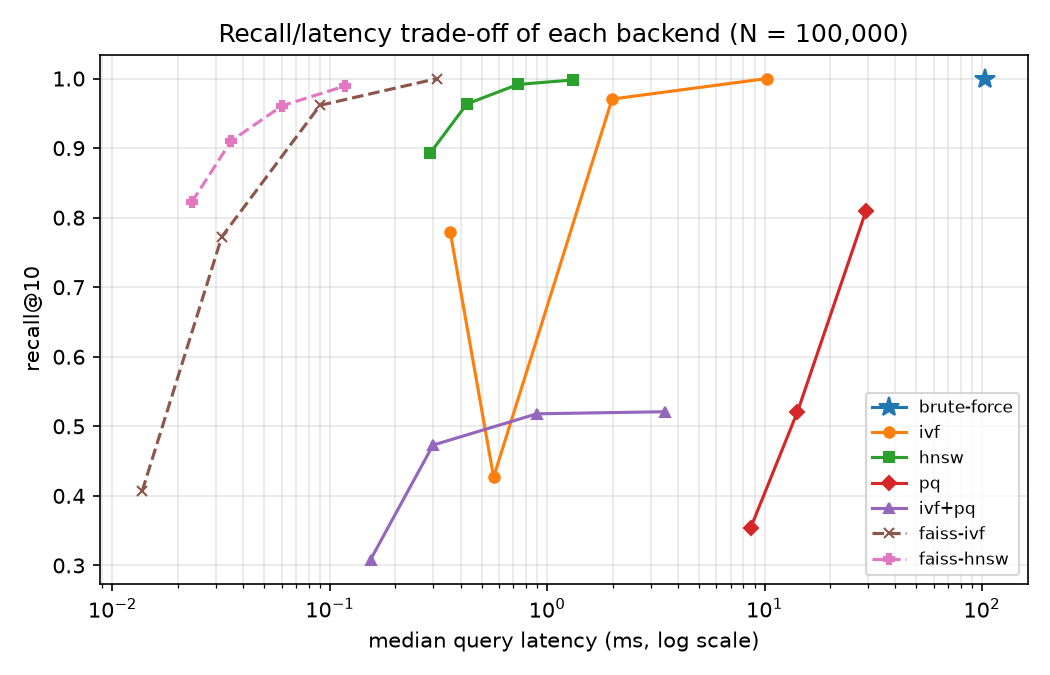
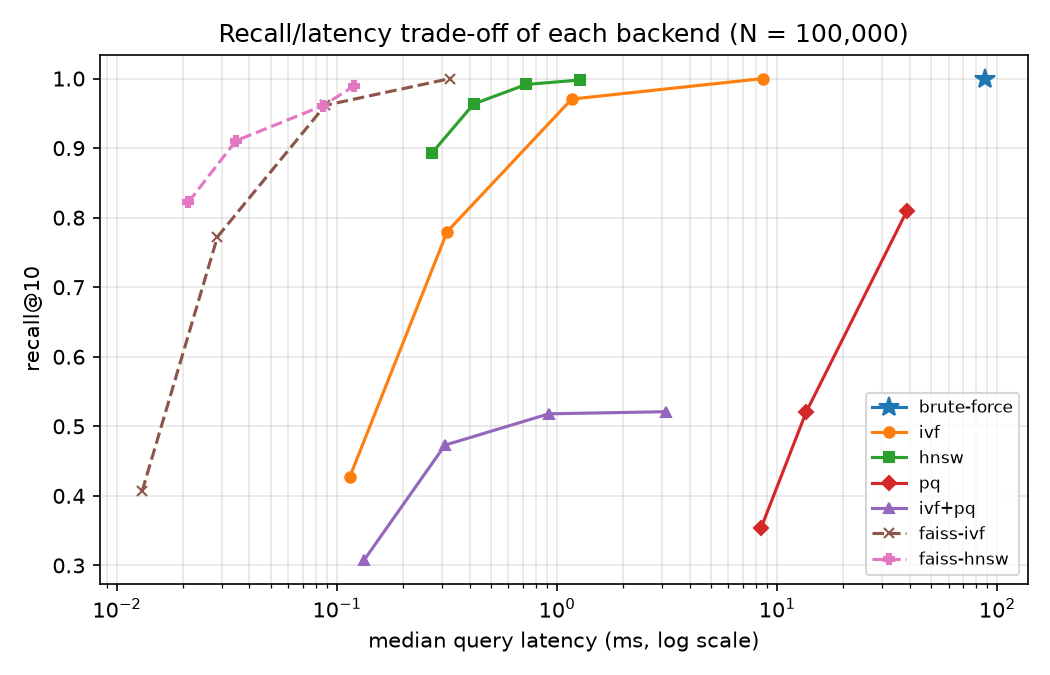
docs(bench): rerun SIFT 100k with the warm-up and best-of-two protocol
IVF nprobe=1 now measures 0.11 ms, in line with isolated runs.

diff --git a/docs/benchmarks/sift.md b/docs/benchmarks/sift.md
@@ -4,7 +4,7 @@ _Generated by `benchmarks/ann_benchmark.py`; do not edit by hand._
 
 - Data: SIFT1M (TEXMEX corpus) (100,000 base vectors of `sift_base.fvecs` and the first 200 queries of `sift_query.fvecs` (128 dimensions), L2-normalised)
 - 200 queries of the public query set, recall@10 measured against the exact brute-force top-10
-- Latency: one query at a time, median (p50) and 95th percentile (p95)
+- Latency: one query at a time, median (p50) and 95th percentile (p95), after 20 warm-up queries; best of 2 timed passes
 - Memory: bytes needed to answer a query: float32 vectors plus the index structure (PQ and IVF+PQ keep only their codes, codebooks and lists)
 - Machine: x86_64, 1 CPU, Python 3.12.14, numpy 1.26.4
 
@@ -12,27 +12,27 @@ _Generated by `benchmarks/ann_benchmark.py`; do not edit by hand._
 
 | Method | Setting | Recall@10 | p50 latency | p95 latency | Speed-up (p50) | Memory | Build |
 |---|---|---:|---:|---:|---:|---:|---:|
-| brute-force | exact scan | 1.000 | 103.71 ms | 146.42 ms | 1.0x | 48.8 MB | 0.0 s |
-| ivf | 316 lists, nprobe=1 | 0.427 | 0.57 ms | 27.38 ms | 182.8x | 49.9 MB | 17.2 s |
-| ivf | 316 lists, nprobe=4 | 0.780 | 0.36 ms | 2.06 ms | 289.7x | 49.9 MB | 17.2 s |
-| ivf | 316 lists, nprobe=16 | 0.971 | 1.99 ms | 5.45 ms | 52.1x | 49.9 MB | 17.2 s |
-| ivf | 316 lists, nprobe=64 | 1.000 | 10.24 ms | 20.27 ms | 10.1x | 49.9 MB | 17.2 s |
-| hnsw | M=16, ef=16 | 0.892 | 0.29 ms | 0.37 ms | 358.7x | 70.1 MB | 317.1 s |
-| hnsw | M=16, ef=32 | 0.963 | 0.43 ms | 0.52 ms | 242.7x | 70.1 MB | 317.1 s |
-| hnsw | M=16, ef=64 | 0.992 | 0.73 ms | 1.24 ms | 141.5x | 70.1 MB | 317.1 s |
-| hnsw | M=16, ef=128 | 0.998 | 1.32 ms | 1.64 ms | 78.8x | 70.1 MB | 317.1 s |
-| pq | m=16 (16 B/vector) | 0.354 | 8.63 ms | 10.95 ms | 12.0x | 1.8 MB | 38.2 s |
-| pq | m=32 (32 B/vector) | 0.521 | 14.18 ms | 17.93 ms | 7.3x | 3.3 MB | 143.6 s |
-| pq | m=64 (64 B/vector) | 0.809 | 29.27 ms | 41.59 ms | 3.5x | 6.4 MB | 267.6 s |
-| ivf+pq | m=32, nprobe=1 | 0.308 | 0.15 ms | 0.36 ms | 673.0x | 4.4 MB | 126.6 s |
-| ivf+pq | m=32, nprobe=4 | 0.473 | 0.30 ms | 0.43 ms | 347.5x | 4.4 MB | 126.6 s |
-| ivf+pq | m=32, nprobe=16 | 0.518 | 0.90 ms | 1.20 ms | 115.7x | 4.4 MB | 126.6 s |
-| ivf+pq | m=32, nprobe=64 | 0.521 | 3.48 ms | 6.17 ms | 29.8x | 4.4 MB | 126.6 s |
-| faiss-ivf | 316 lists, nprobe=1 | 0.406 | 0.01 ms | 0.02 ms | 7572.2x | 49.7 MB | 1.7 s |
-| faiss-ivf | 316 lists, nprobe=4 | 0.772 | 0.03 ms | 0.05 ms | 3254.9x | 49.7 MB | 1.7 s |
-| faiss-ivf | 316 lists, nprobe=16 | 0.962 | 0.09 ms | 0.13 ms | 1150.1x | 49.7 MB | 1.7 s |
-| faiss-ivf | 316 lists, nprobe=64 | 1.000 | 0.31 ms | 0.42 ms | 332.2x | 49.7 MB | 1.7 s |
-| faiss-hnsw | M=16, ef=16 | 0.822 | 0.02 ms | 0.03 ms | 4480.8x | 62.6 MB | 4.2 s |
-| faiss-hnsw | M=16, ef=32 | 0.910 | 0.04 ms | 0.04 ms | 2945.5x | 62.6 MB | 4.2 s |
-| faiss-hnsw | M=16, ef=64 | 0.961 | 0.06 ms | 0.07 ms | 1713.9x | 62.6 MB | 4.2 s |
-| faiss-hnsw | M=16, ef=128 | 0.990 | 0.12 ms | 0.16 ms | 878.0x | 62.6 MB | 4.2 s |
+| brute-force | exact scan | 1.000 | 88.19 ms | 111.52 ms | 1.0x | 48.8 MB | 0.0 s |
+| ivf | 316 lists, nprobe=1 | 0.427 | 0.11 ms | 0.48 ms | 772.1x | 49.9 MB | 21.6 s |
+| ivf | 316 lists, nprobe=4 | 0.780 | 0.32 ms | 1.32 ms | 278.4x | 49.9 MB | 21.6 s |
+| ivf | 316 lists, nprobe=16 | 0.971 | 1.17 ms | 5.13 ms | 75.7x | 49.9 MB | 21.6 s |
+| ivf | 316 lists, nprobe=64 | 1.000 | 8.60 ms | 11.31 ms | 10.2x | 49.9 MB | 21.6 s |
+| hnsw | M=16, ef=16 | 0.892 | 0.27 ms | 0.35 ms | 327.6x | 70.1 MB | 300.7 s |
+| hnsw | M=16, ef=32 | 0.963 | 0.42 ms | 0.49 ms | 211.0x | 70.1 MB | 300.7 s |
+| hnsw | M=16, ef=64 | 0.992 | 0.72 ms | 0.85 ms | 121.8x | 70.1 MB | 300.7 s |
+| hnsw | M=16, ef=128 | 0.998 | 1.28 ms | 1.50 ms | 69.1x | 70.1 MB | 300.7 s |
+| pq | m=16 (16 B/vector) | 0.354 | 8.45 ms | 8.96 ms | 10.4x | 1.8 MB | 112.2 s |
+| pq | m=32 (32 B/vector) | 0.521 | 13.56 ms | 15.21 ms | 6.5x | 3.3 MB | 258.2 s |
+| pq | m=64 (64 B/vector) | 0.809 | 38.80 ms | 49.49 ms | 2.3x | 6.4 MB | 500.9 s |
+| ivf+pq | m=32, nprobe=1 | 0.308 | 0.13 ms | 0.19 ms | 661.5x | 4.4 MB | 257.4 s |
+| ivf+pq | m=32, nprobe=4 | 0.473 | 0.31 ms | 0.44 ms | 284.9x | 4.4 MB | 257.4 s |
+| ivf+pq | m=32, nprobe=16 | 0.518 | 0.92 ms | 1.22 ms | 96.1x | 4.4 MB | 257.4 s |
+| ivf+pq | m=32, nprobe=64 | 0.521 | 3.13 ms | 3.67 ms | 28.2x | 4.4 MB | 257.4 s |
+| faiss-ivf | 316 lists, nprobe=1 | 0.406 | 0.01 ms | 0.02 ms | 6774.0x | 49.7 MB | 1.3 s |
+| faiss-ivf | 316 lists, nprobe=4 | 0.772 | 0.03 ms | 0.04 ms | 3078.5x | 49.7 MB | 1.3 s |
+| faiss-ivf | 316 lists, nprobe=16 | 0.962 | 0.09 ms | 0.12 ms | 997.5x | 49.7 MB | 1.3 s |
+| faiss-ivf | 316 lists, nprobe=64 | 1.000 | 0.33 ms | 0.43 ms | 269.7x | 49.7 MB | 1.3 s |
+| faiss-hnsw | M=16, ef=16 | 0.822 | 0.02 ms | 0.03 ms | 4178.2x | 62.6 MB | 4.0 s |
+| faiss-hnsw | M=16, ef=32 | 0.910 | 0.03 ms | 0.04 ms | 2539.1x | 62.6 MB | 4.0 s |
+| faiss-hnsw | M=16, ef=64 | 0.961 | 0.09 ms | 0.10 ms | 1021.3x | 62.6 MB | 4.0 s |
+| faiss-hnsw | M=16, ef=128 | 0.990 | 0.12 ms | 0.15 ms | 735.7x | 62.6 MB | 4.0 s |
